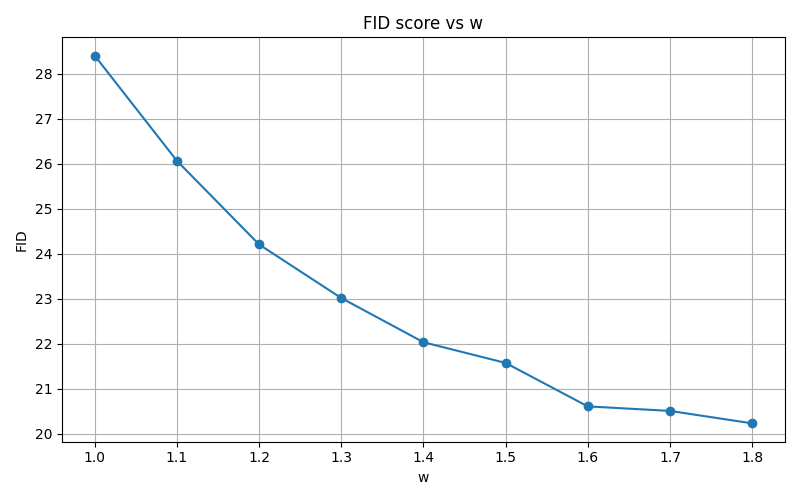
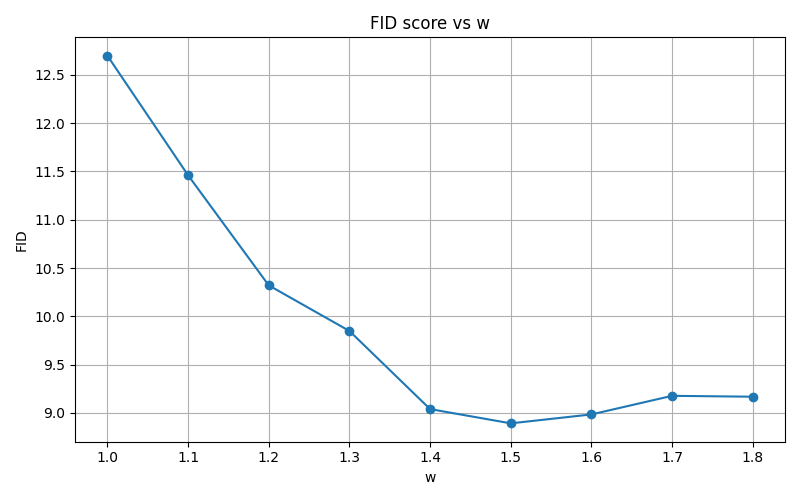
Finished performance evaluation

diff --git a/run_performance_evaluation.py b/run_performance_evaluation.py
@@ -12,7 +12,7 @@ device = get_device()
 print(device, flush = True)
 
 batch_size = 1000
-num_steps = 200
+num_steps = 300
 fid = FrechetInceptionDistance(feature=2048).to(device)
 val_root = "/home/pml02/datasets/ImageNet_val_32x32"
 
@@ -62,6 +62,7 @@ for w in w_values:
 
     fake_count = 0
     i = 1
+    print("Sampling fake images...", flush = True)
     start_time = datetime.now()
     while fake_count < num_samples:
         y = torch.arange(1, 1001, device=device, dtype=torch.long)
@@ -95,7 +96,7 @@ for w in w_values:
 torch.save({
     "w_values": w_values,
     "fid_scores": fid_scores
-}, "fid_scores_w.pt")
+}, "fid_scores_w_300.pt")
 print("Saved FID scores to fid_scores_w.pt", flush=True)
 
 plt.figure(figsize=(8,5))

diff --git a/src/sampler.py b/src/sampler.py
@@ -67,7 +67,8 @@ def sample_images(model, w = 1.5, device = "cuda", y=None, num_steps=100, batch_
     for i in range(num_steps):
         x_t = midpoint_solver(model, x_t, t, h, y, w)
         t = t + h
-        print(f"{i + 1}-th step completed", flush = True)
+        if (i + 1) % 10 == 0:
+            print(f"{i + 1}-th step completed", flush = True)
             
     x_t = torch.clamp(x_t, 0.0, 1.0)
     
